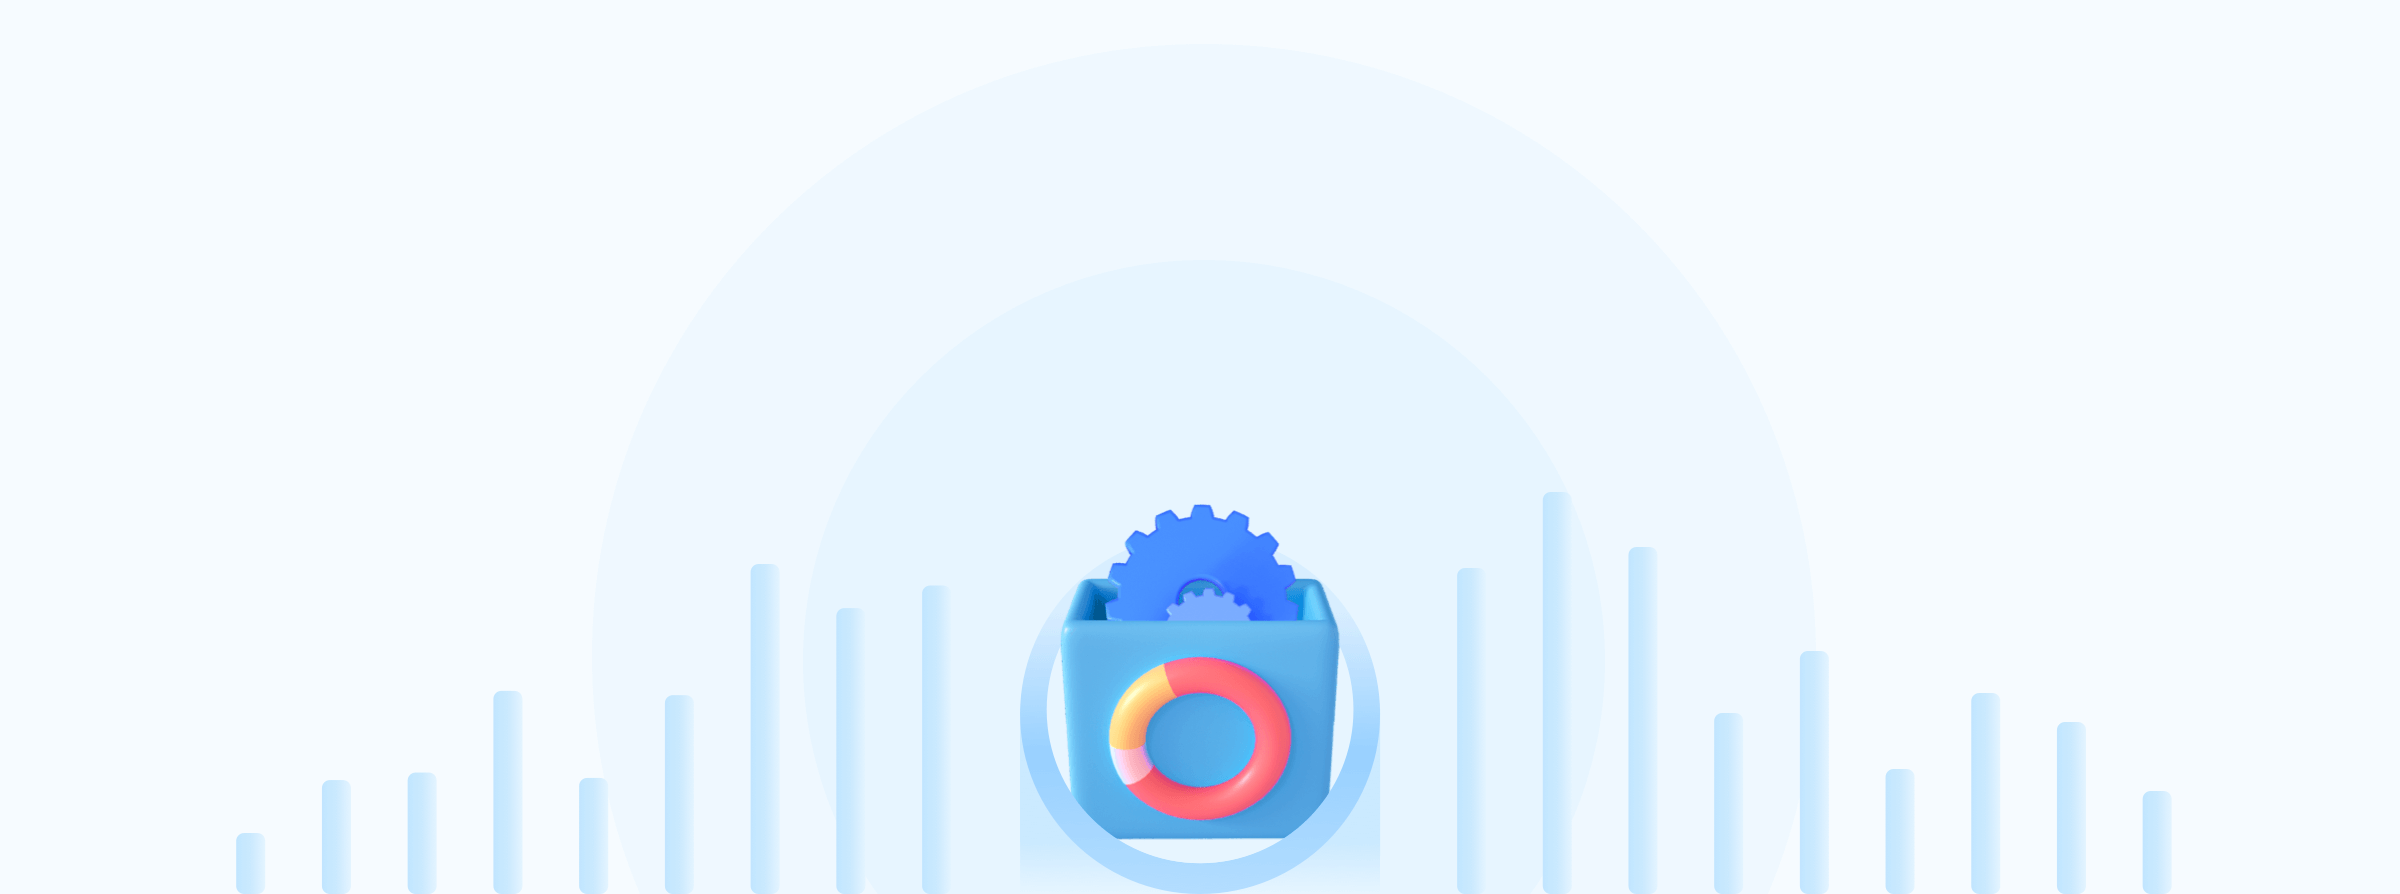
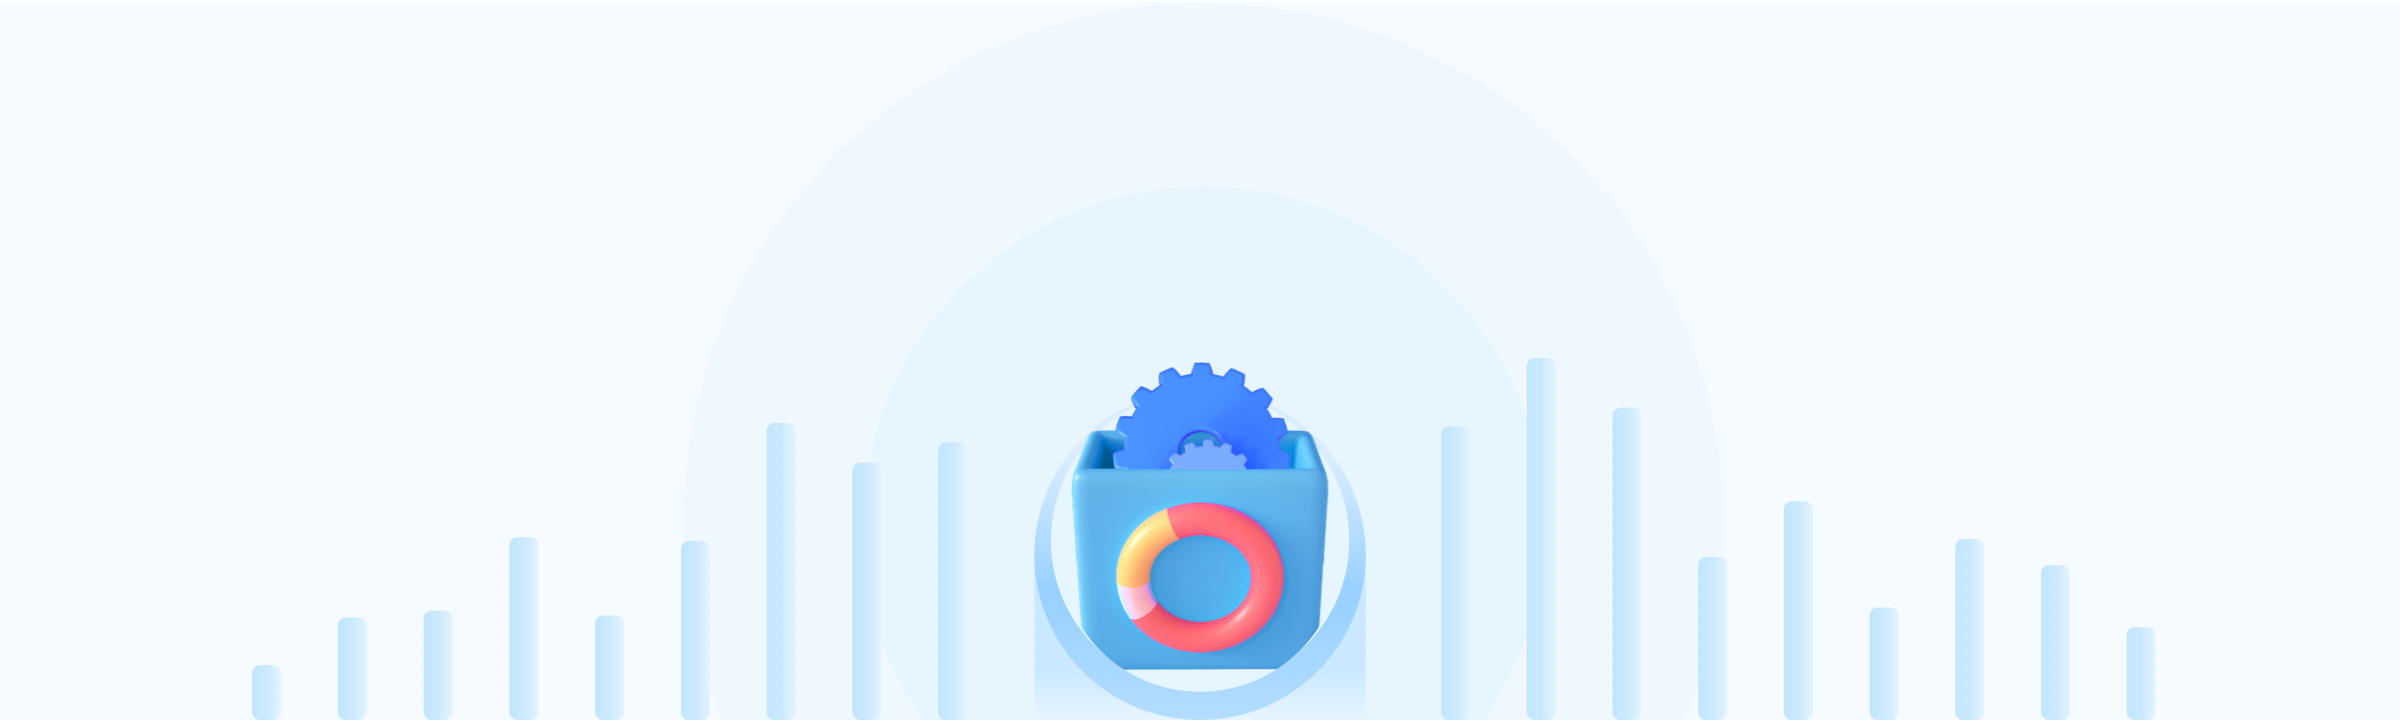
fix: style css

Changed region(s): [[0.0938, 0.4889, 0.9062, 1.0]]

diff --git a/newton-website/src/static/css/ecosystem.scss b/newton-website/src/static/css/ecosystem.scss
@@ -33,7 +33,7 @@
   .getnew-banner {
     @apply relative;
     h2 {
-      @apply absolute md:top-1/2 top-[40%] left-1/2 text-5xl md:text-[6.6rem] w-full text-center whitespace-nowrap;
+      @apply absolute md:top-1/2 top-[40%] left-1/2 text-5xl md:text-[5.32rem] w-full text-center whitespace-nowrap;
       transform: translate(-50%, -50%);
     }
   }
@@ -41,10 +41,10 @@
 // ecosystem
 #ecosystem {
   .getnew-banner {
-    @apply pt-[98%] sm:pt-[94%] md:pt-[36%];
+    @apply pt-[98%] sm:pt-[94%] md:pt-[30%];
 
     h2 {
-      @apply top-[23%] md:top-[39%];
+      @apply top-[23%] md:top-[27%];
     }
   }
   .ecosystem-content {
@@ -119,9 +119,9 @@
 // getNew
 #getnew {
   .getnew-banner {
-    @apply pt-[127%] sm:pt-[122%] md:pt-[41%];
+    @apply pt-[127%] sm:pt-[122%] md:pt-[30%];
     h2 {
-      @apply text-[3.25rem] md:text-[6.6rem];
+      @apply text-5xl md:text-[5.32rem];
     }
   }
   .newtax {
@@ -143,7 +143,7 @@
       }
     }
     dd {
-      @apply md:flex md:flex-wrap md:flex-col text-sm md:w-full md:ml-5;
+      @apply md:flex md:flex-wrap md:flex-col text-sm md:w-[99%] md:ml-5;
       a {
         @apply text-gray20;
       }
@@ -277,7 +277,7 @@
 // community
 #community {
   .getnew-banner {
-    @apply pt-[96%] sm:pt-[92%] md:pt-[39%];
+    @apply pt-[96%] sm:pt-[92%] md:pt-[30%];
     h2 {
       @apply md:top-[45%] top-[50%];
     }
@@ -303,37 +303,20 @@
     }
   }
 }
-// @media (min-width: 1450px) {
-//   #ecosystem {
-//     .getnew-banner {
-//       padding-top: 447px !important;
-//     }
-//   }
-//   #community {
-//     .getnew-banner {
-//       padding-top: 479px !important;
-//     }
-//   }
-//   #getnew {
-//     .getnew-banner {
-//       padding-top: 491px !important;
-//     }
-//   }
-// }
+
 @media (min-width: 1200px) {
-  #ecosystem {
-    .getnew-banner {
-      padding-top: 447px !important;
-    }
-  }
-  #community {
-    .getnew-banner {
-      padding-top: 479px !important;
-    }
-  }
+  #ecosystem,
+  #community,
   #getnew {
     .getnew-banner {
-      padding-top: 491px !important;
+      padding-top: 360px !important;
+    }
+  }
+
+  #community,
+  #ecosystem {
+    .getnew-banner h2 {
+      letter-spacing: 15px;
     }
   }
 }

diff --git a/newton-website/src/components/ecosystemContent.tsx b/newton-website/src/components/ecosystemContent.tsx
@@ -13,7 +13,7 @@ export default function EcosystemContent() {
       <div className={'getnew-banner'}>
         <img className={'ecosystem-banner-pc'} src={bannerEcosystem} alt="img" />
         <img className={'ecosystem-banner-h5'} src={bannerEcosystemH5} alt="img" />
-        <h2>ECOSYSTEM</h2>
+        <h2>{intl.formatMessage({ id: 'ECOSYSTEM' })}</h2>
       </div>
       <div className={'ecosystem-content ecosystem-container container'}>
         <dl>

diff --git a/newton-website/src/static/css/header.scss b/newton-website/src/static/css/header.scss
@@ -125,13 +125,17 @@
 }
 .header-nav-menu {
   @apply pl-8;
-  max-height: 65vh;
+  max-height: 73vh;
   overflow-y: auto;
+  .header-use .use,
+  li a {
+    @apply font-medium;
+    font-family: 'Ubuntu-Medium';
+  }
   li {
     @apply mb-6;
     a {
-      @apply text-grag2c font-medium;
-      font-family: 'Ubuntu-Medium';
+      @apply text-grag2c;
     }
   }
   .header-down {

diff --git a/newton-website/src/components/footer.tsx b/newton-website/src/components/footer.tsx
@@ -48,7 +48,7 @@ export default function Footer() {
               </dd>
             </dl>
             <dl>
-              <dt>{intl.formatMessage({ id: 'Developers' })}</dt>
+              <dt>{intl.formatMessage({ id: 'DEVELOPERS' })}</dt>
               <dd>
                 <Link to="/faucet/">{intl.formatMessage({ id: 'Get Faucet' })}</Link>
               </dd>
